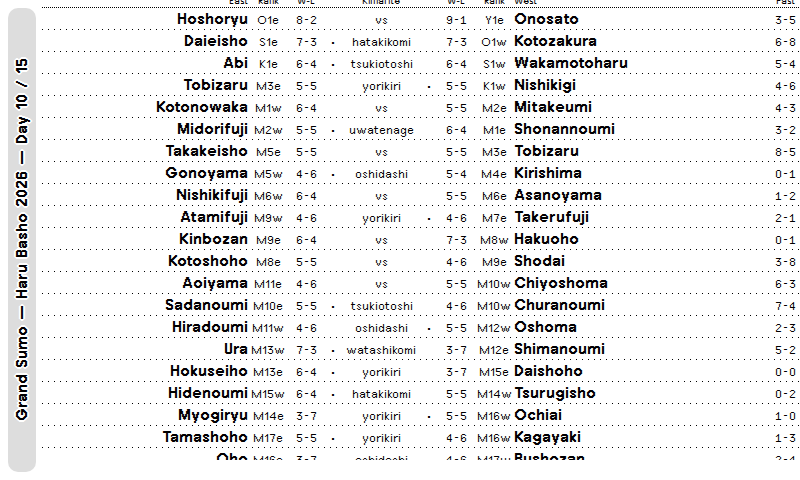
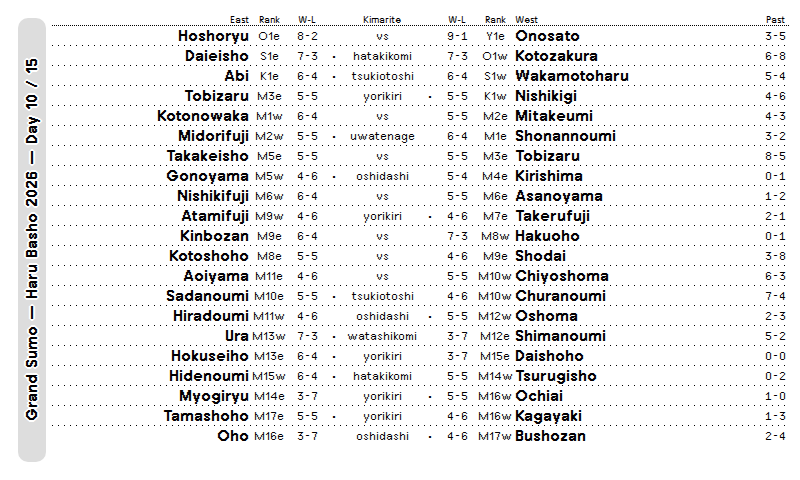
Size stats rows to the 460px view, not a second 480 box
.screen pads 10px, so the real content area is 460px tall. A nested
800×480 overflow box clipped thead and sliced the last row. Fill the
view at 100%, top-align the table, and keep xsmall rows at 18px
(actual ~20px) so all 21 bouts fit with a complete header and no
overflow chip.

diff --git a/previews/stats/half_vertical.html b/previews/stats/half_vertical.html
@@ -16,28 +16,48 @@
         <style>
   :root {
     --table-xsmall-tbody-height: 18px;
-    --table-xsmall-thead-height: 14px;
+    --table-xsmall-thead-height: 16px;
   }
-  .layout { padding: 0 !important; margin: 0 !important; }
+  .layout {
+    padding: 0 !important;
+    margin: 0 !important;
+    justify-content: flex-start !important;
+    align-content: flex-start !important;
+  }
   .view { padding: 0 !important; }
+  .table.table--xsmall {
+    border-spacing: 0 !important;
+  }
+  .table.table--xsmall thead tr,
+  .table.table--xsmall thead th {
+    height: 16px !important;
+    line-height: 16px !important;
+  }
+  .table.table--xsmall tbody tr,
+  .table.table--xsmall tbody td {
+    height: 18px !important;
+    line-height: 18px !important;
+  }
   .table.table--xsmall th,
   .table.table--xsmall td {
     padding-top: 0 !important;
     padding-bottom: 0 !important;
     padding-left: 2px !important;
     padding-right: 2px !important;
-    line-height: 18px;
+  }
+  .table.table--xsmall .label {
+    line-height: 18px !important;
   }
 </style>
 
-<div style="display: flex; flex-direction: row; width: 400px; height: 480px; overflow: hidden;">
+<div style="display: flex; flex-direction: row; width: 100%; height: 100%; align-items: stretch;">
 
   <div class="title_bar" style="writing-mode: vertical-lr; transform: rotate(180deg); position: static; width: auto; max-width: 34px; height: auto; border-radius: 10px; margin: 8px 3px 8px 6px; padding: 10px 4px; flex-shrink: 0; display: flex; align-items: center; justify-content: center; white-space: nowrap;">
     <span class="title">Grand Sumo &mdash; Haru Basho 2026 &mdash; Day 10 / 15</span>
   </div>
 
-  <div class="layout layout--col gap--none" style="flex: 1; min-width: 0;">
-  <table class="table table--xsmall" style="table-layout: fixed; width: 100%;">
+  <div class="layout layout--col gap--none" style="flex: 1; min-width: 0; min-height: 0;">
+  <table class="table table--xsmall" data-table-limit="true" style="table-layout: fixed; width: 100%;">
     <thead>
       <tr>
         <th style="width: 28%; text-align: right;"><span class="title" style="font-size: 9px;">East</span></th>

diff --git a/previews/stats/full.html b/previews/stats/full.html
@@ -16,26 +16,49 @@
         <style>
   :root {
     --table-xsmall-tbody-height: 18px;
-    --table-xsmall-thead-height: 14px;
+    --table-xsmall-thead-height: 16px;
   }
-  .layout { padding: 0 !important; margin: 0 !important; }
+  .layout {
+    padding: 0 !important;
+    margin: 0 !important;
+    justify-content: flex-start !important;
+    align-content: flex-start !important;
+  }
   .view { padding: 0 !important; }
+  /* .label defaults to 16/20 and grows each row to 22px. 16 + 21×22
+     overflows the 460px view and terminalize paints "and 2 more".
+     16 + 21×20 = 436, which fits. */
+  .table.table--xsmall {
+    border-spacing: 0 !important;
+  }
+  .table.table--xsmall thead tr,
+  .table.table--xsmall thead th {
+    height: 16px !important;
+    line-height: 16px !important;
+  }
+  .table.table--xsmall tbody tr,
+  .table.table--xsmall tbody td {
+    height: 18px !important;
+    line-height: 18px !important;
+  }
   .table.table--xsmall th,
   .table.table--xsmall td {
     padding-top: 0 !important;
     padding-bottom: 0 !important;
-    line-height: 18px;
+  }
+  .table.table--xsmall .label {
+    line-height: 18px !important;
   }
 </style>
 
-<div style="display: flex; flex-direction: row; width: 800px; height: 480px; overflow: hidden;">
+<div style="display: flex; flex-direction: row; width: 100%; height: 100%; align-items: stretch;">
 
   <div class="title_bar" style="writing-mode: vertical-lr; transform: rotate(180deg); position: static; width: auto; height: auto; border-radius: 10px; margin: 8px 6px 8px 8px; padding: 10px 6px; flex-shrink: 0; display: flex; align-items: center; justify-content: center; white-space: nowrap;">
     <span class="title">Grand Sumo &mdash; Haru Basho 2026 &mdash; Day 10 / 15</span>
   </div>
 
-  <div class="layout layout--col gap--none" style="flex: 1; min-width: 0;">
-  <table class="table table--xsmall">
+  <div class="layout layout--col gap--none" style="flex: 1; min-width: 0; min-height: 0;">
+  <table class="table table--xsmall" data-table-limit="true">
     <thead>
       <tr>
         <th style="text-align: right;"><span class="title" style="font-size: 9px;">East</span></th>
